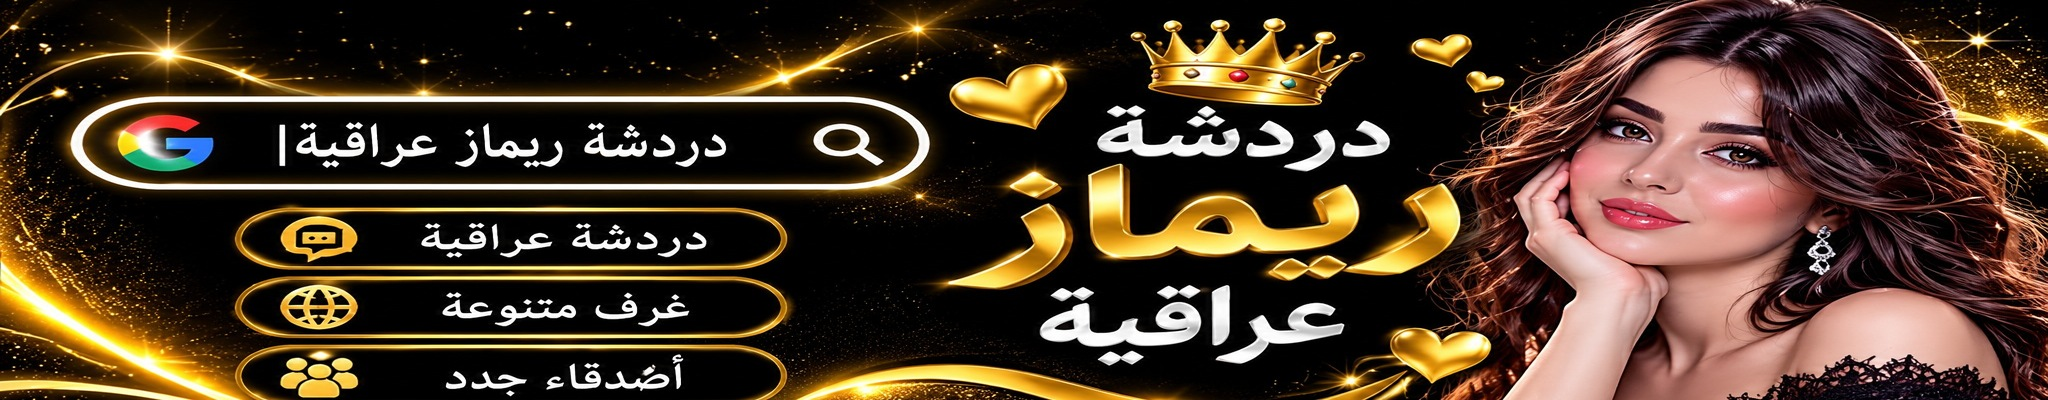
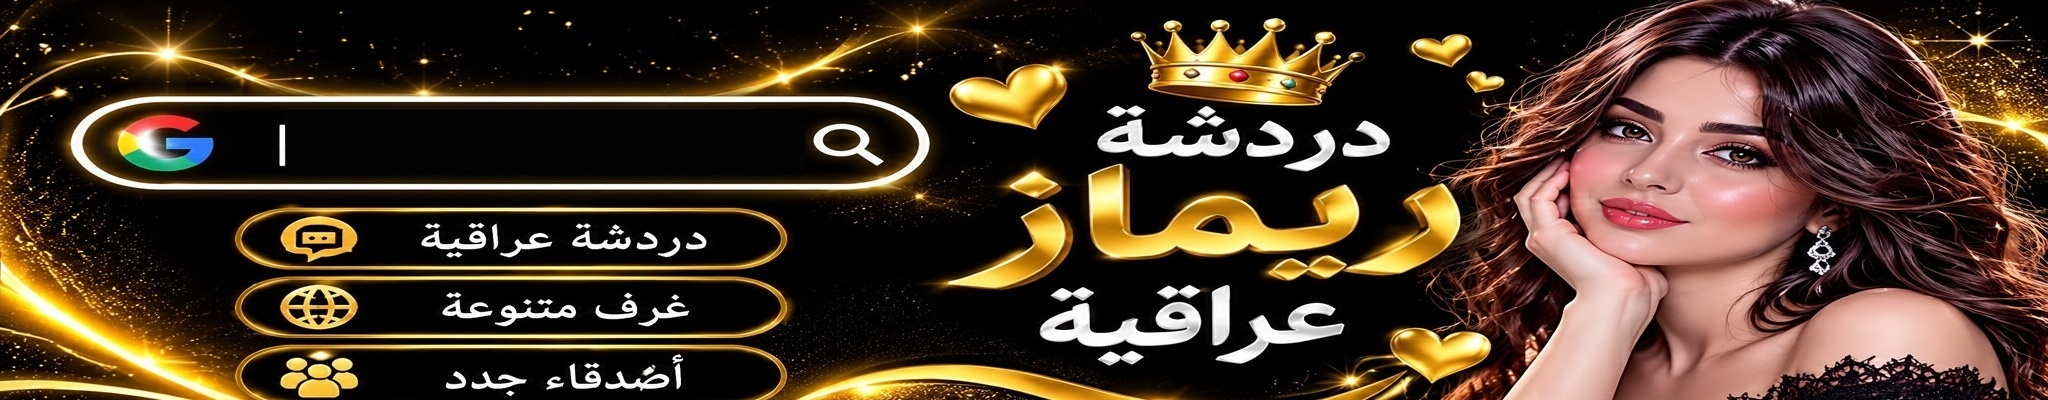
Add files via upload

diff --git a/public/index.html b/public/index.html
@@ -2460,8 +2460,8 @@ sid='';localStorage.removeItem('rimaz_sid');login();
 }
 .rlLegacyBanner.rimazGoldBanner:after{display:none!important;content:none!important}
 .rlBannerTyping{
-  position:absolute!important;z-index:5!important;left:21.4%!important;top:23.2%!important;
-  width:39.2%!important;height:18.2%!important;display:flex!important;align-items:center!important;
+  position:absolute!important;z-index:5!important;left:13.2%!important;top:24.2%!important;
+  width:25.5%!important;height:18.2%!important;display:flex!important;align-items:center!important;
   justify-content:center!important;gap:2px!important;overflow:hidden!important;
   background:#080706!important;color:#fff!important;border:0!important;border-radius:0!important;
   direction:rtl!important;text-align:center!important;white-space:nowrap!important;
@@ -2473,7 +2473,7 @@ sid='';localStorage.removeItem('rimaz_sid');login();
 @keyframes rimazBannerCaret{50%{opacity:0}}
 @media(max-width:650px){
  .rlLegacyBanner.rimazGoldBanner{height:clamp(126px,33vw,178px)!important;max-height:178px!important}
- .rlBannerTyping{font-size:clamp(9px,2.45vw,15px)!important;left:21.4%!important;top:23.2%!important;width:39.2%!important;height:18.2%!important}
+ .rlBannerTyping{font-size:clamp(9px,2.35vw,14px)!important;left:13.2%!important;top:24.2%!important;width:25.5%!important;height:18.2%!important}
 }
 @media(prefers-reduced-motion:reduce){.rlBannerTyping i{animation:none!important}}
 </style>
